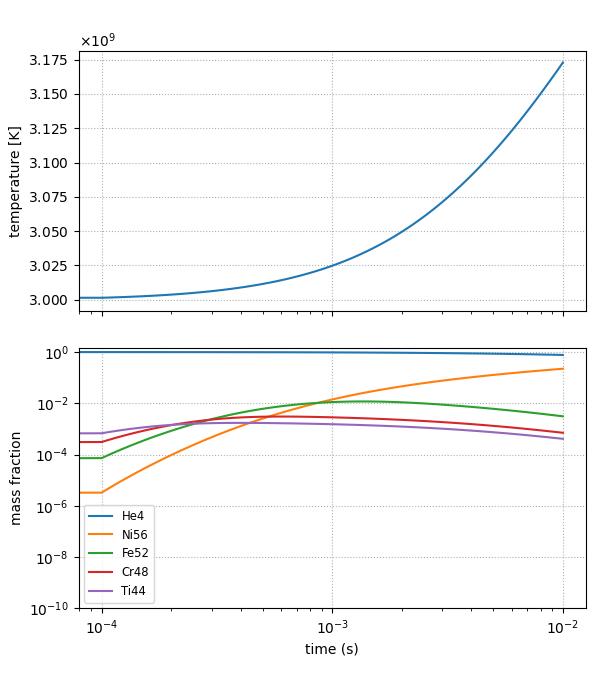
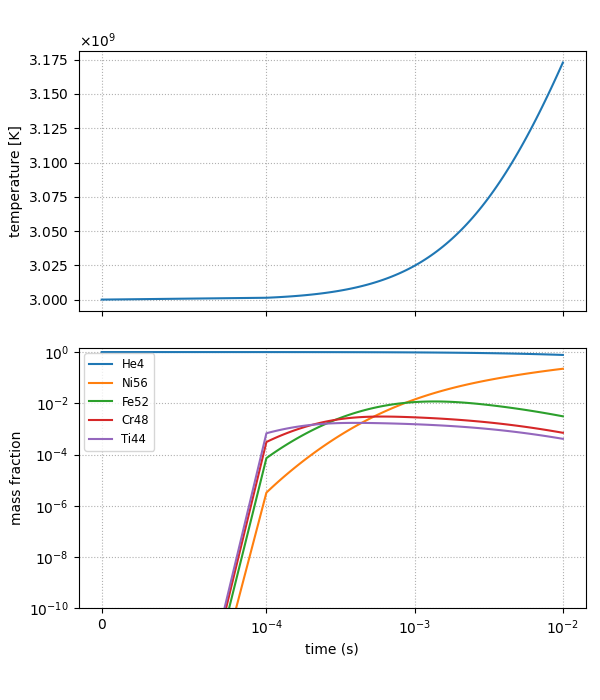
fix plot

diff --git a/unit_test/burn_cell/plot_burn_cell.py b/unit_test/burn_cell/plot_burn_cell.py
@@ -21,7 +21,11 @@ def doit(state_file, xmin, n_plot, outfile):
     fig , (ax1, ax2) = plt.subplots(2, 1, sharex=True)
 
     ax1.plot(data["Time"], data["Temperature"])
-    ax1.set_xscale("log")
+
+    # the first time point is t = 0, which doesn't work well
+    # on a logscale for x, so we use symlog to transition
+    # to log at the second time point
+    ax1.set_xscale("symlog", linthresh=data["Time"][1])
     ax1.grid(ls=":")
 
     ax1.set_ylabel("temperature [K]")
@@ -31,7 +35,7 @@ def doit(state_file, xmin, n_plot, outfile):
     for n in range(n_plot):
         ax2.plot(data["Time"], data[abundant[n]], label=abundant[n])
 
-    ax2.set_xscale("log")
+    ax2.set_xscale("symlog", linthresh=data["Time"][1])
     ax2.set_yscale("log")
     ax2.set_ylim(xmin, 1.5)
     ax2.grid(ls=":")
